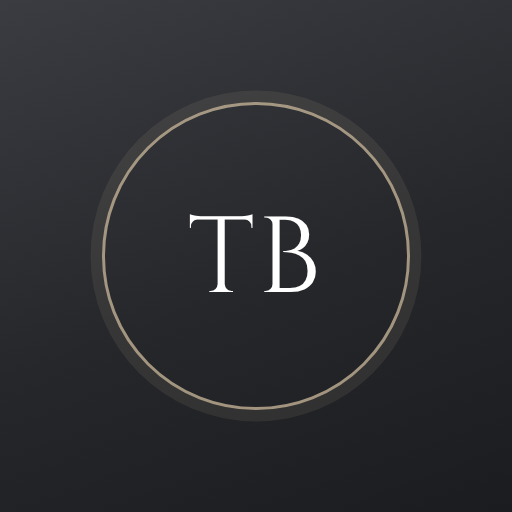
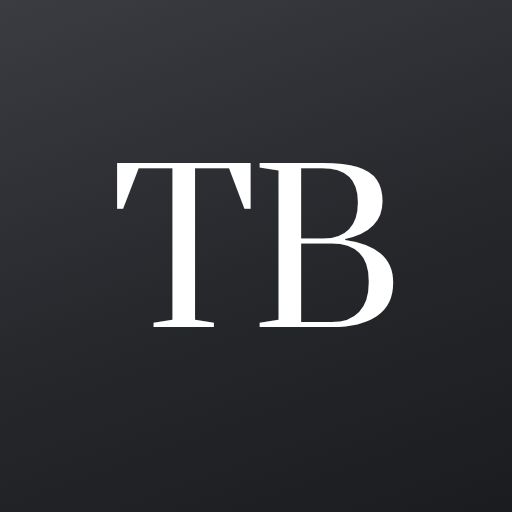
Иконка приложения: вариант C — крупные TB шрифтом Prata, без ободка
Claude-Session: https://claude.ai/code/session_01RMXbpmim3Eq15MbV4TffcD

diff --git a/index.html b/index.html
@@ -6,7 +6,7 @@
 <meta name="trendburo-build" content="2026-10-14-live-v61">
 <meta name="theme-color" content="#ffffff">
 <link rel="manifest" href="/manifest.webmanifest">
-<link rel="apple-touch-icon" href="/icons/apple-touch-icon.png">
+<link rel="apple-touch-icon" href="/icons/apple-touch-icon.png?v=3">
 <meta name="apple-mobile-web-app-capable" content="yes">
 <meta name="mobile-web-app-capable" content="yes">
 <meta name="apple-mobile-web-app-title" content="Trend Büro">
@@ -2350,9 +2350,9 @@ function instGuide(){if(instStandalone())return;let el=$("#ins");if(!el){el=docu
   st.push(dots?["«•••» справа внизу",`<div class="ins-pg"></div>${bar(1)}`]:["Кнопка «Поделиться» внизу",`<div class="ins-pg"></div>${bar(1)}`]);
   if(dots)st.push(["«Поделиться»",`<div class="ins-pg"></div><div class="ins-menu"><div>Новая вкладка</div><div>Закладки</div><div class="ins-hi">Поделиться ${INS_SH}</div></div>`]);
   st.push(["«На экран „Домой“»",`<div class="ins-pg" style="height:28px"></div><div class="ins-sh"><div class="ap"><i></i><i></i><i></i><i></i></div><div class="rw">Скопировать</div><div class="rw ins-hi">На экран «Домой» ${INS_PL}</div></div>`]);
-  st.push(["«Добавить»",`<div class="ins-ad"><div class="tp"><span>Отменить</span><span class="ins-hi">Добавить</span></div><div class="cd"><img src="/icons/icon-192.png" alt="">Trend Büro</div></div>`]);
+  st.push(["«Добавить»",`<div class="ins-ad"><div class="tp"><span>Отменить</span><span class="ins-hi">Добавить</span></div><div class="cd"><img src="/icons/icon-192.png?v=3" alt="">Trend Büro</div></div>`]);
   el.innerHTML=`<button class="ins-x" aria-label="Закрыть">×</button>
-  <div class="ins-hero"><img class="ins-ic" src="/icons/icon-512.png" alt="Trend Büro"><div class="ins-ey">Trend Büro</div><h2>Добавьте на экран «Домой»</h2></div>
+  <div class="ins-hero"><img class="ins-ic" src="/icons/icon-512.png?v=3" alt="Trend Büro"><div class="ins-ey">Trend Büro</div><h2>Добавьте на экран «Домой»</h2></div>
   <p class="ins-l">Четыре касания внизу Safari — и приложение всегда под рукой</p>
   <div class="ins-p" aria-label="Подсказка">${st.map((x,i)=>`<div class="ins-c"><div class="ins-cap"><b>${i+1}</b>${x[0]}</div><div class="ins-m">${x[1]}</div></div>`).join("")}</div>
   <p class="ins-n">Это подсказка — нажимайте не на неё, а на кнопки Safari внизу экрана</p>
